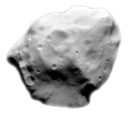
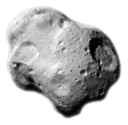
Tweak asteroid textures.

diff --git a/EventHorizonRider.Core/Components/SpaceComponents/Rings/RingFactory.cs b/EventHorizonRider.Core/Components/SpaceComponents/Rings/RingFactory.cs
@@ -24,7 +24,7 @@ namespace EventHorizonRider.Core.Components.SpaceComponents.Rings
 
         internal void LoadContent(ContentManager content, GraphicsDevice graphics)
         {
-            Asteroids = LoadData(content, "asteroid", 4, hasShadow:true);
+            Asteroids = LoadData(content, "asteroid", 3, hasShadow:true);
             Asteroids.ShadowOffset = new Vector2(30, 30);
             Asteroids.DensityRange = Range.Create(15, 35);
             Asteroids.ScaleRange = Range.Create(0.2f, 0.8f);
